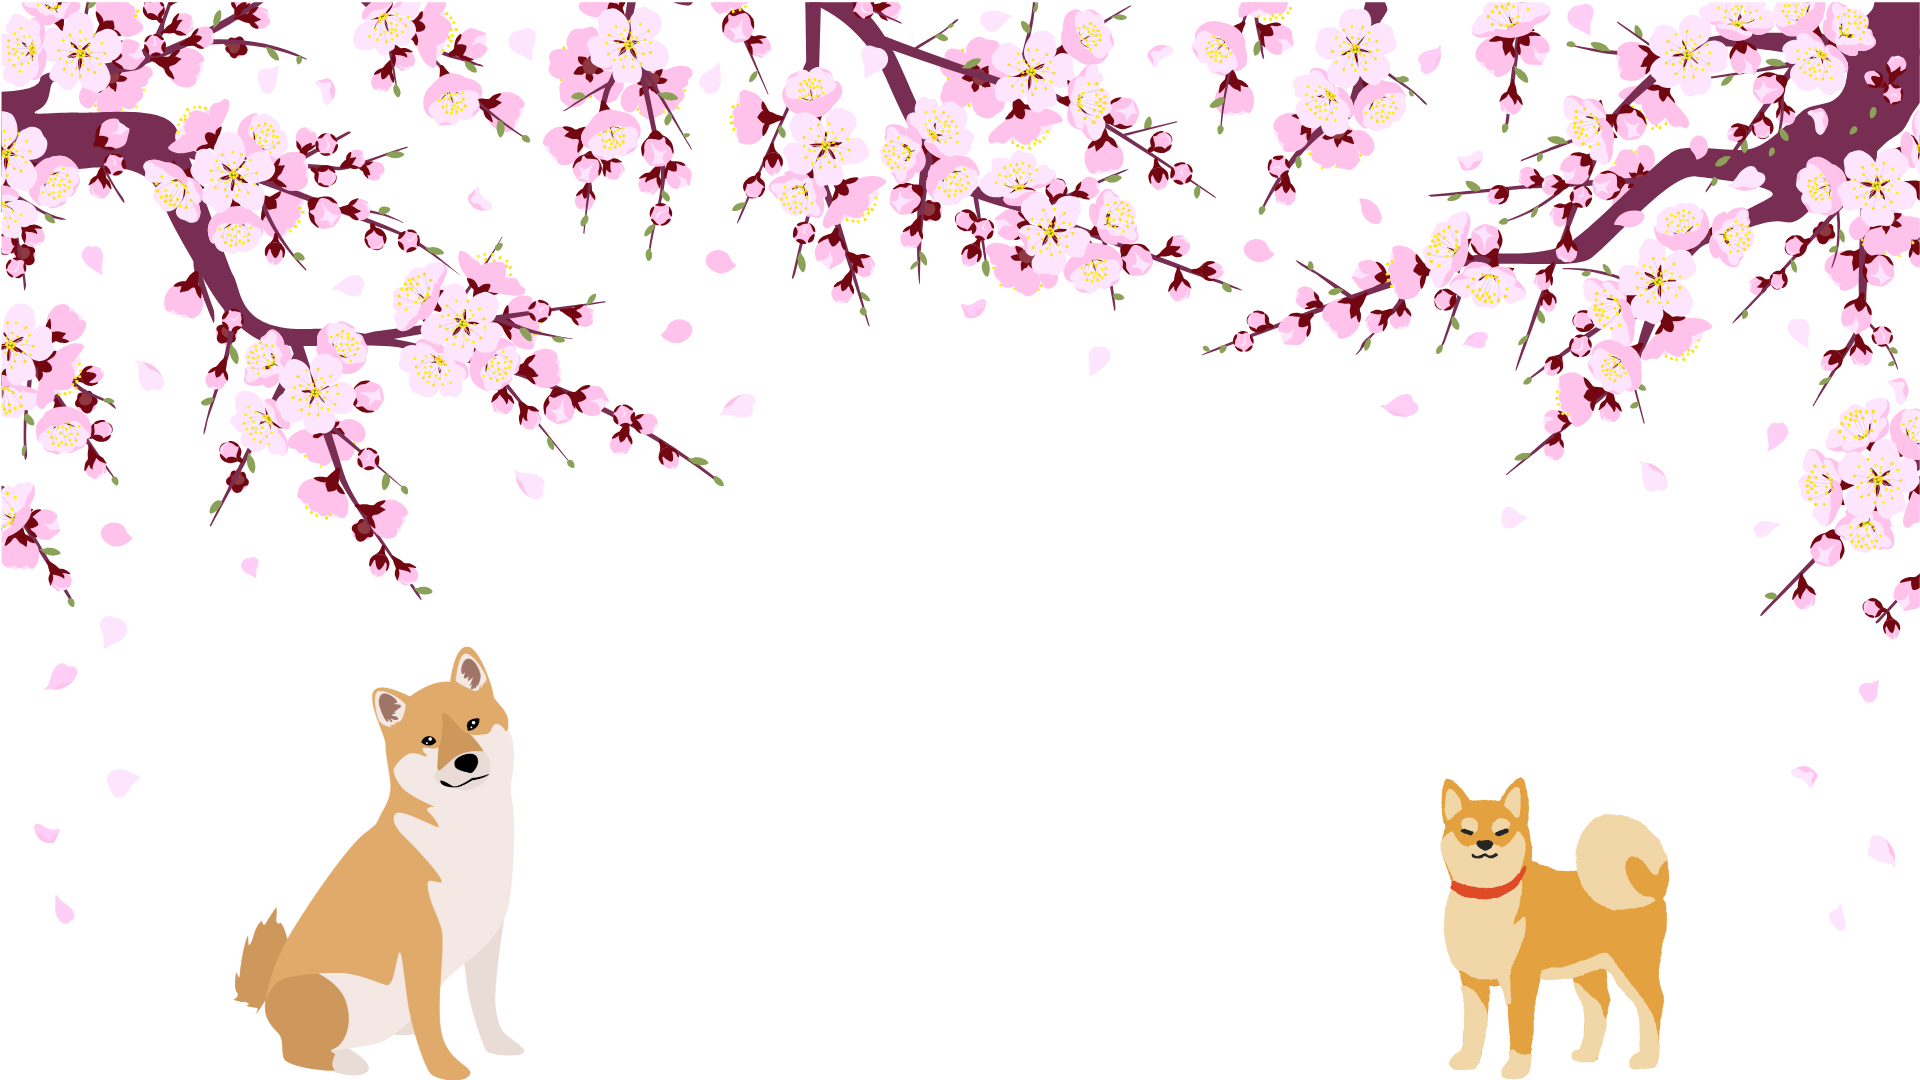
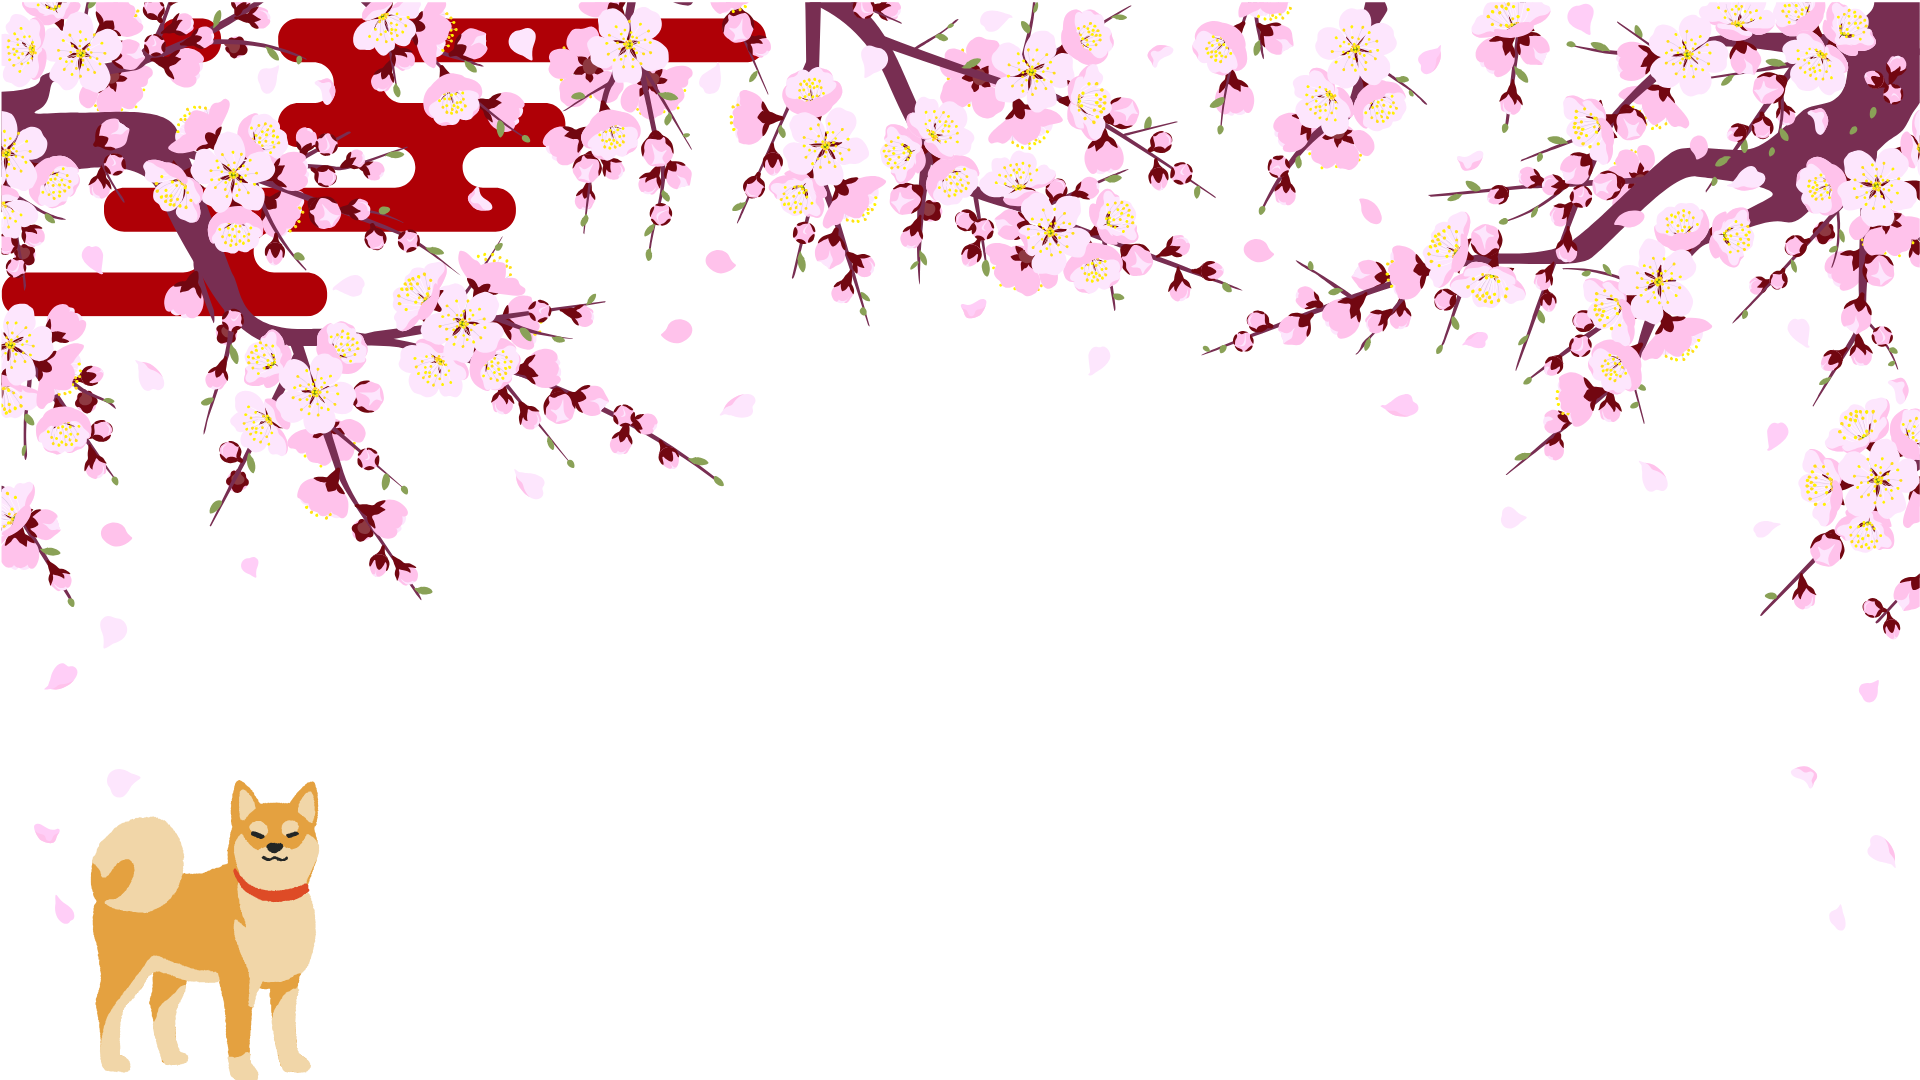
タイトルとデザインの微調整

diff --git a/week03/week06/index.html b/week03/week06/index.html
@@ -2,7 +2,7 @@
 <html lang="ja">
 <head>
   <meta charset="UTF-8" />
-  <title>いんぬ</title>
+  <title>犬の原産国マップ</title>
   <meta name="viewport" content="width=device-width, initial-scale=1.0" />
   <link href="https://unpkg.com/maplibre-gl@2.4.0/dist/maplibre-gl.css" rel="stylesheet" />
   <style>
@@ -134,6 +134,15 @@
     #japanDogImage img {
       width: 100%;
       object-fit: contain;
+    }
+  
+    .footprint {
+      position: absolute;
+      width: 24px;
+      pointer-events: none;
+      transition: opacity 0.3s;
+      opacity: 0;
+      z-index: 1000;
     }
 
   </style>
@@ -427,6 +436,75 @@
     });
 
     // 検索バー処理（あとで対応可能）
+
+  function generateFootsteps(start, end, steps = 20) {
+    const footstepCoords = [];
+    for (let i = 0; i <= steps; i++) {
+      const t = i / steps;
+      const x = start.x + t * (end.x - start.x);
+      const y = start.y + t * (end.y - start.y);
+      footstepCoords.push({ x, y });
+    }
+    return footstepCoords;
+  }
+
+  function animateFootsteps(coords) {
+    coords.forEach((coord, index) => {
+      setTimeout(() => {
+        const img = document.createElement('img');
+        img.src = 'images/inu_asiato.png';
+        img.className = 'footprint';
+        img.style.left = `${coord.x}px`;
+        img.style.top = `${coord.y}px`;
+        document.body.appendChild(img);
+
+        requestAnimationFrame(() => {
+          img.style.opacity = '1';
+        });
+
+        // 自動削除（3秒後）
+        setTimeout(() => img.remove(), 3000);
+      }, index * 100);
+    });
+  }
+
+  function showFootstepsToBreedPin(breedId) {
+    const searchBar = document.querySelector('#searchBar')?.getBoundingClientRect();
+    const pin = document.querySelector(`#pin-${breedId}`)?.getBoundingClientRect();
+    if (!searchBar || !pin) return;
+
+    const start = {
+      x: searchBar.left + searchBar.width / 2,
+      y: searchBar.top + searchBar.height / 2
+    };
+    const end = {
+      x: pin.left + pin.width / 2,
+      y: pin.top + pin.height / 2
+    };
+
+    const coords = generateFootsteps(start, end);
+    animateFootsteps(coords);
+  }
+
+  // 検索バーのイベントに連携
+  document.querySelector('#searchBar')?.addEventListener('input', (e) => {
+    const breedName = e.target.value.trim();
+    const breedId = convertBreedNameToId(breedName); // 例: '柴犬' → 'shiba'
+    if (breedId) {
+      showFootstepsToBreedPin(breedId);
+    }
+  });
+
+  // 補助関数：名前からIDを取得（仮の例）
+  function convertBreedNameToId(name) {
+    const map = {
+      '柴犬': 'shiba',
+      '秋田犬': 'akita',
+      '甲斐犬': 'kai',
+      // 必要に応じて追加
+    };
+    return map[name] || null;
+  }
 
   </script>
 </body>
